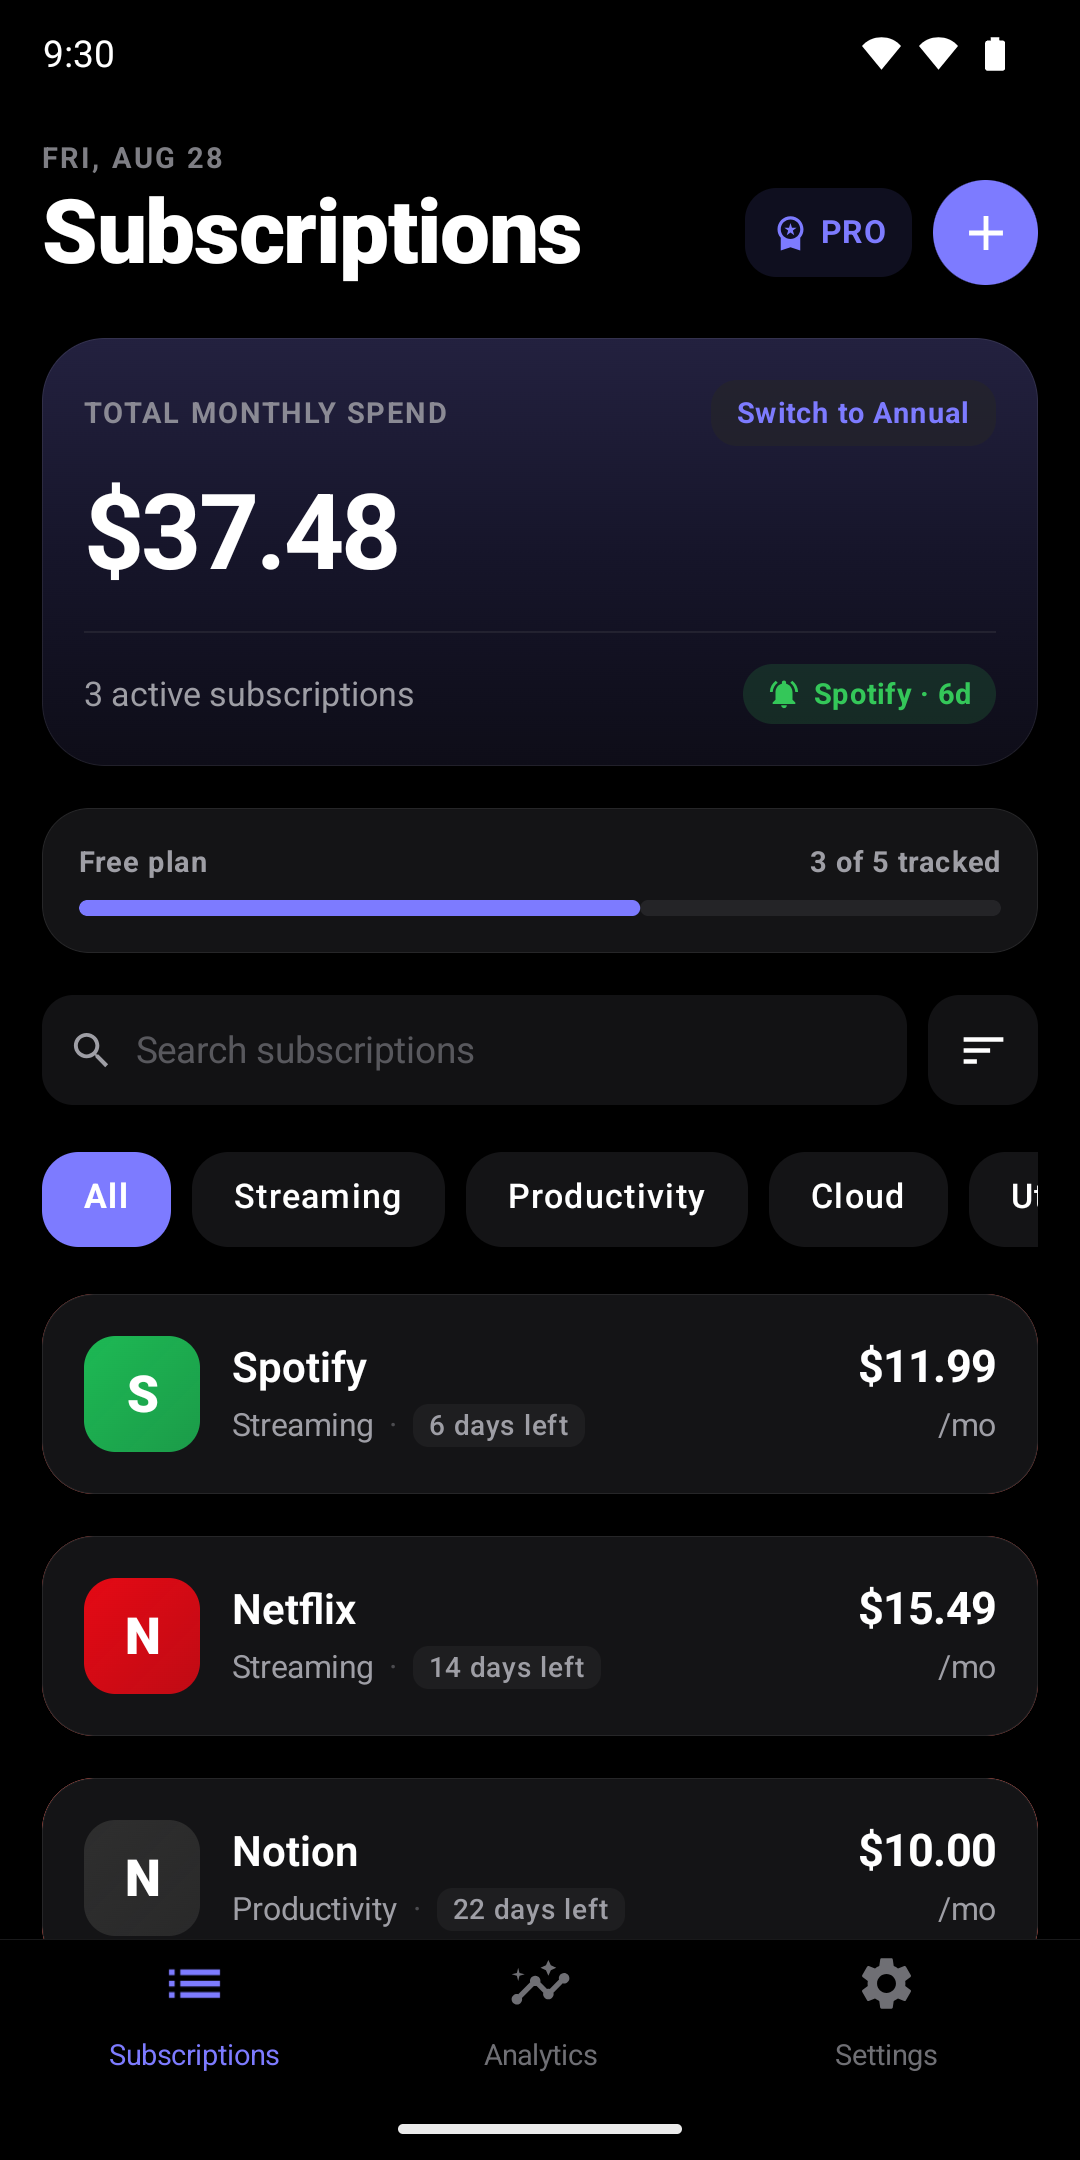
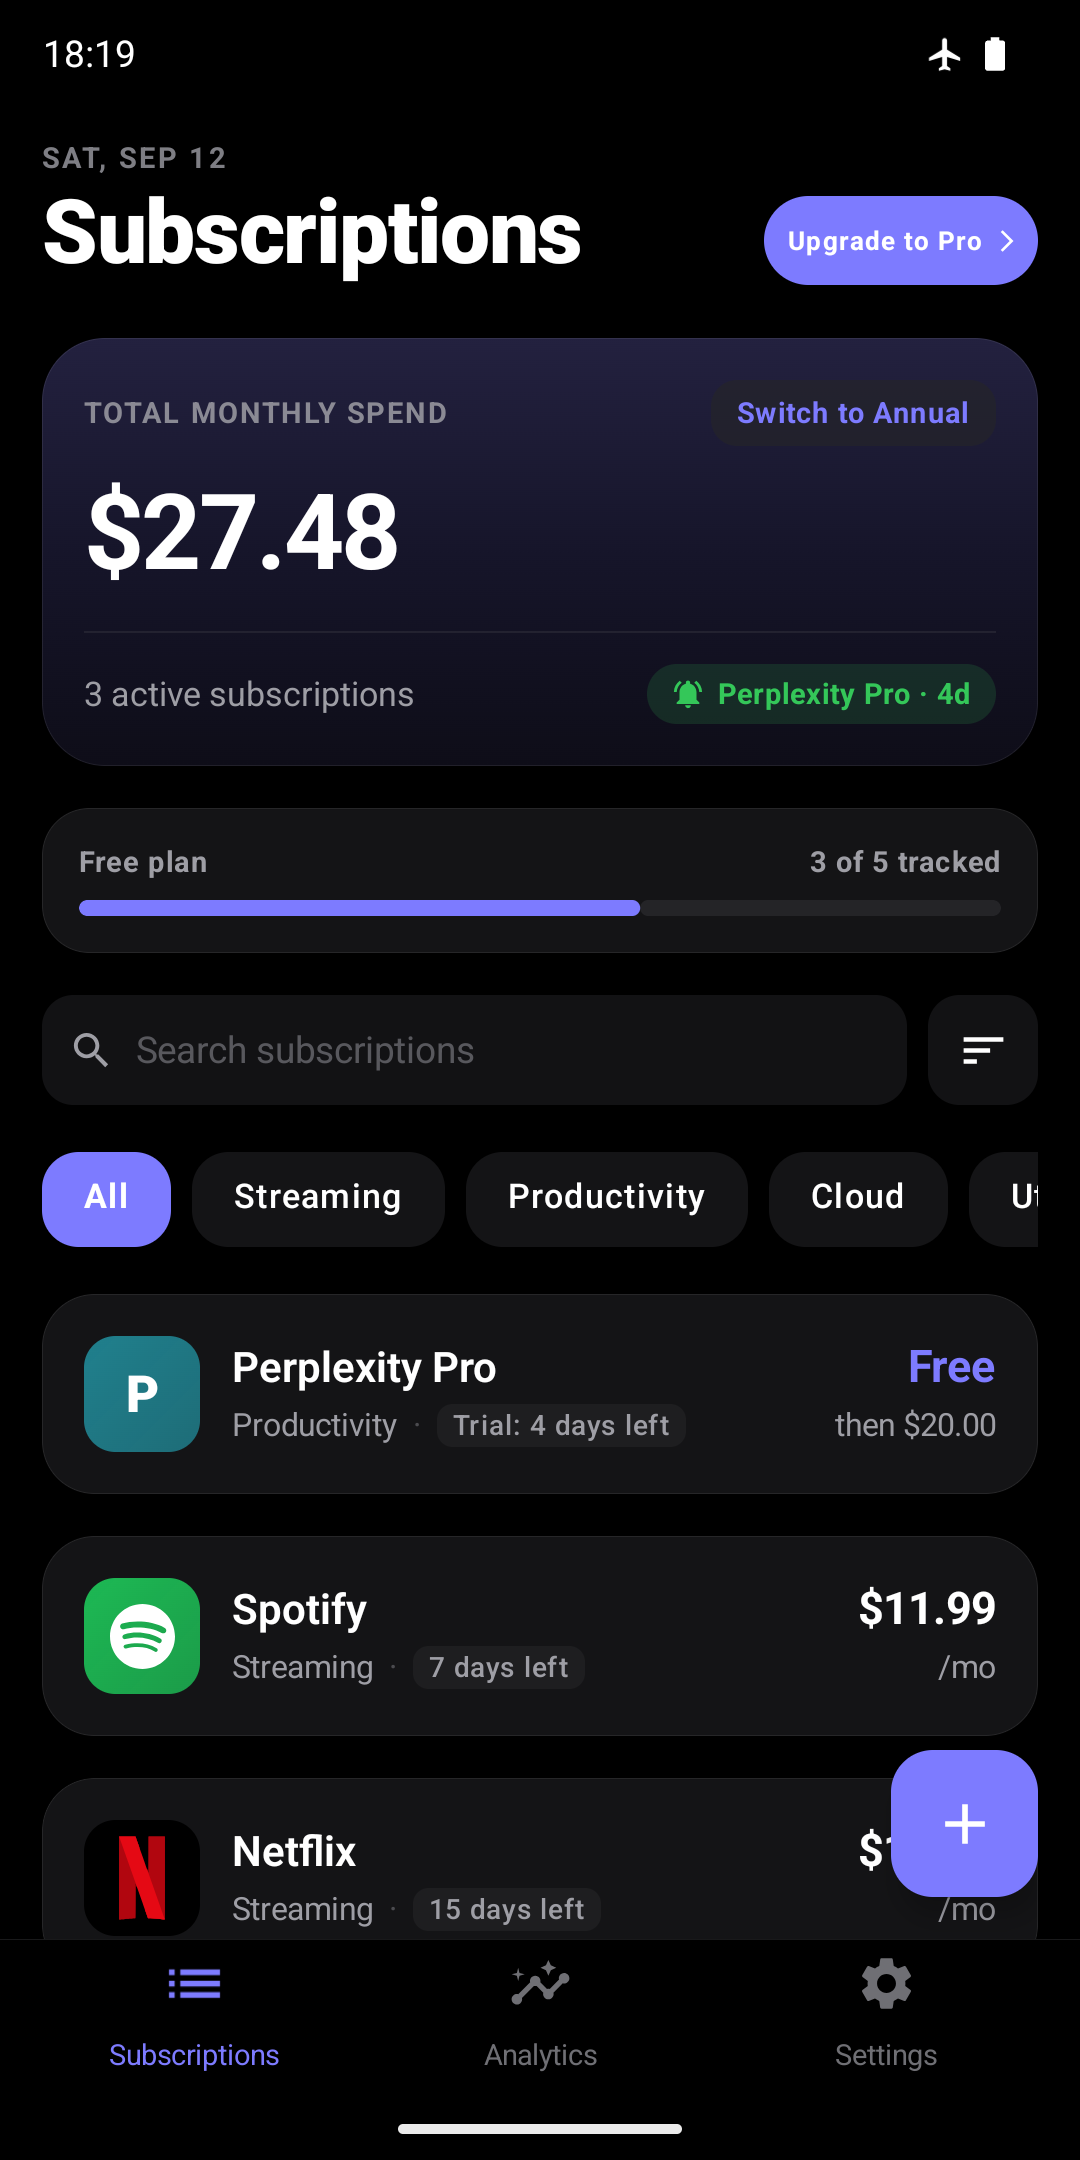
Re-capture the store screenshots and correct the README
The screenshots were taken on 2026-08-28, two shipped releases ago.
05-settings.png showed the single Settings page that BIN-21 split up, and
nothing in the set showed trial tracking, which has been in the app since
1.1.0.

Six now instead of five, all 1080x2160. Play rejects anything longer than
twice its width, so the capture is done at that size rather than cropped
from the Pixel 8a's native 1080x2400 - cropping loses content, resizing
does not. A running trial is in the seeded data, so trial tracking is in
three of the six. The old Settings shot is replaced by the Preferences
page, and the currency picker is new, because forty currencies and a
named rate source say more about the app than four rows and a version
string.

The method is written down next to the checklist, because most of it was
learned by getting a shot wrong: airplane mode, or the AdMob test banner
renders into the bottom of every frame and a Play Billing error snackbar
covers a row; three subscriptions, not four, or the "one slot left" card
fills half the screen; and dark mode comes from the app's own Appearance
setting, which overrides the system.

The README still called the app unreleased and described bundle 1.0.0 (2)
waiting on closed testing. 1.2.0 has been live for two days.

Still missing: a screenshot of the home screen widget. The only device
here is an emulator whose launcher would put four other apps' icons in
the frame.

diff --git a/docs/play-store-copy.md b/docs/play-store-copy.md
@@ -553,11 +553,14 @@ so the feature isn't there.
 - [ ] **versionCode 4 / versionName 1.2.0**. 3 is used up.
 - [ ] **Release notes**: paste the whole block, all languages.
 - [ ] **Add the listing languages** under Main store listing → Manage translations: zh-CN, zh-TW, zh-HK, de-DE, fr-FR, es-ES, ja-JP, with the text above. Also consider replacing the en-US text if it's out of date.
-- [ ] **Screenshots are out of date.** `play-assets/screenshots/` was captured on 2026-08-28.
-      `05-settings.png` shows the old single-page Settings, and none of them show trial
-      tracking. Play falls back to the default language's screenshots for zh-TW, so
-      Traditional Chinese screenshots aren't required but would look better. Keep the
-      2:1 limit: 1080×2160 is accepted, while the Pixel 8a's native 1080×2400 is rejected.
+- [x] **Screenshots re-captured 2026-09-13** (BIN-31), replacing the 2026-08-28 set.
+      Six now, all 1080×2160 — the 2:1 limit Play enforces, which the Pixel 8a's
+      native 1080×2400 fails. `05-settings.png` is the split Settings that
+      replaced the single page, and `06-currencies.png` is new. Trial tracking
+      now appears in `01`, `02` and `03`. Play falls back to the default
+      language's screenshots, so the other six languages need none.
+      **Still missing: the home screen widget**, because the only device here is
+      an emulator whose launcher would put other apps' icons in the shot.
 - [ ] **Check the existing en-US listing.** The 2026-08-28 draft named **10** currencies
       and avoided the phrase "live exchange rates". Since 2026-09-02 there are **40**
       currencies and the rates are fetched live. If the listing still says the old
@@ -565,3 +568,18 @@ so the feature isn't there.
 - [ ] **Data safety: no changes.** 1.2.0 collects nothing new. The language and currency
       choices are stored only on the device, and the exchange-rate request already
       existed before this release.
+
+### How the screenshots were taken
+
+So the next set matches rather than drifting. On the Pixel_8a emulator:
+
+- `adb shell wm size 1080x2160` — the capture is then already at the ratio Play
+  accepts, with nothing cropped away.
+- `cmd locale set-app-locales <pkg> --locales en-US`, home currency USD.
+- Seed three active subscriptions and one paused, **not four** — at four the
+  "one slot left on the free plan" card fills half the screen. One of the three
+  is a running trial, which is what puts trial tracking in the frame.
+- **Airplane mode on.** Otherwise the AdMob *test* banner renders into the
+  bottom of every shot, and a Play Billing error snackbar covers a row.
+- The app's own Appearance setting drives dark mode, not `cmd uimode night` —
+  the setting overrides the system.

diff --git a/README.md b/README.md
@@ -8,9 +8,10 @@ It has no connection to your bank, your card, or the services you track, and it
 cannot cancel anything on your behalf. That constraint is the product decision,
 not a limitation — see [ADR 0001](docs/adr/0001-privacy-first-manual-tracking.md).
 
-**Status:** unreleased. Bundle `1.0.0 (2)` is built and verified against Play's
-Android 16 and Billing 9 requirements; closed testing has not yet reached the
-12-tester threshold.
+**Status:** on Google Play. `1.2.0 (4)` is the live build; the next upload is
+versionCode 5. Each uploaded build is tagged `v<versionName>` on the commit it
+was built from, and `.claude/skills/play-release` is the procedure that gets it
+there.
 
 ## Layout
 
